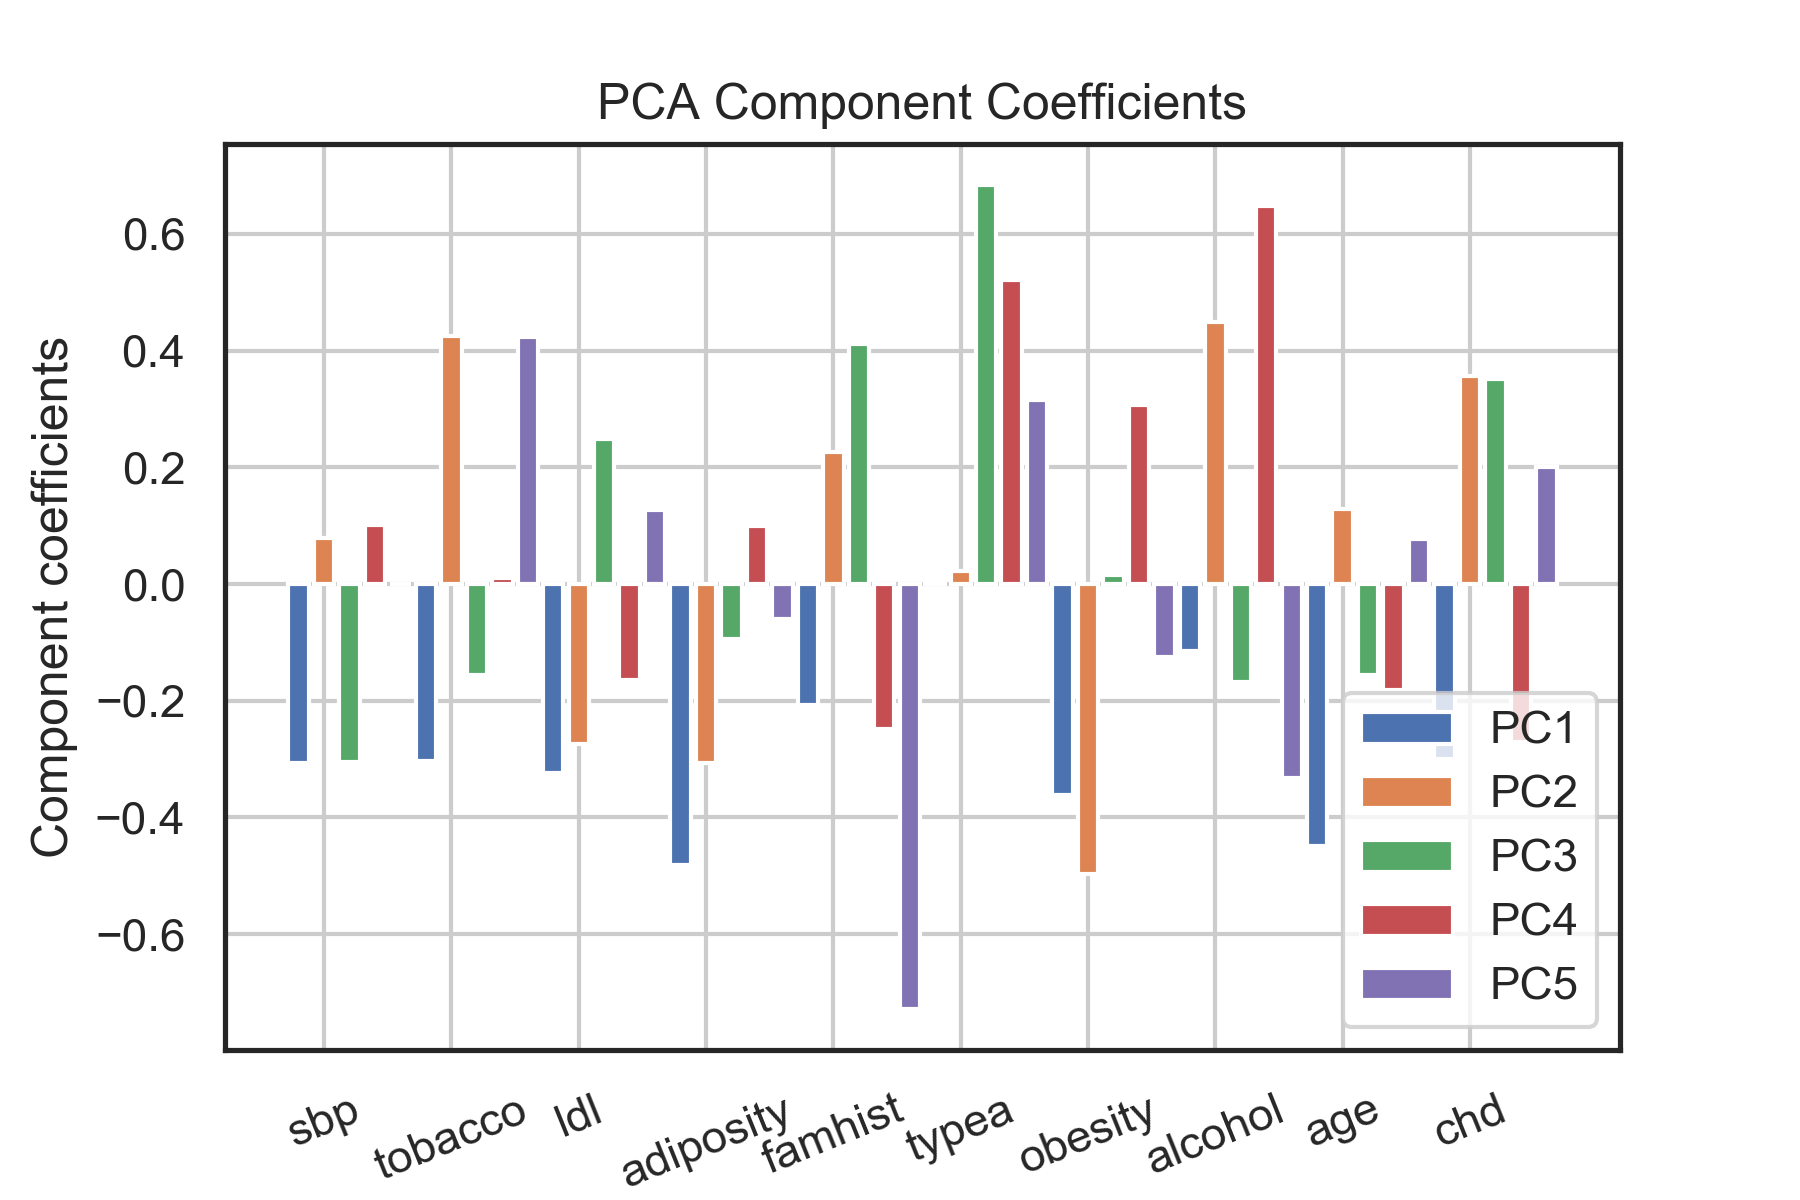
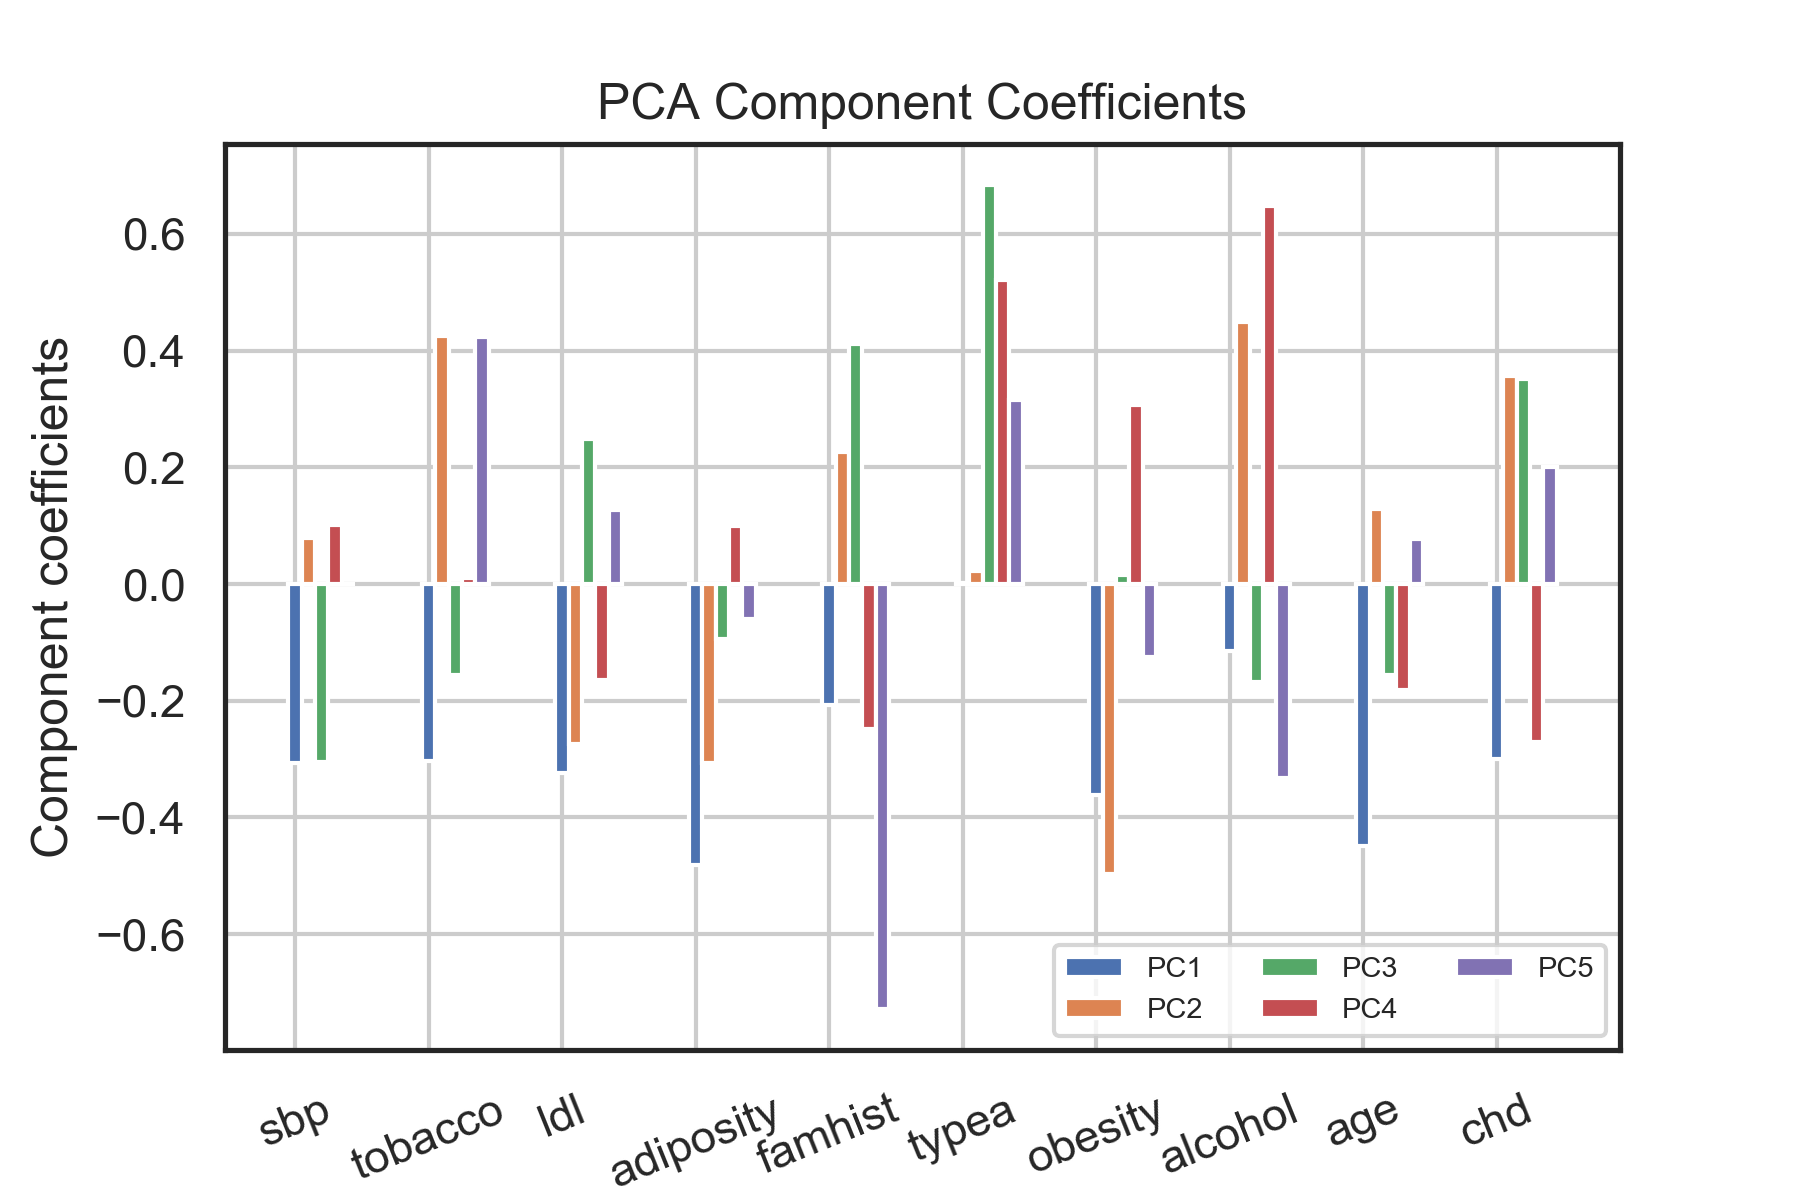
Incorporating everything in the main file

Changed region(s): [[0.1556, 0.1233, 0.9022, 0.8633], [0.3422, 0.8942, 0.84, 0.9867], [0.1244, 0.8942, 0.3422, 0.9867]]

diff --git a/Heart_disease_PCA+plots.py b/Heart_disease_PCA+plots.py
@@ -246,20 +246,21 @@ pcs = [0,1,2,3,4]
 legendStrs = ['PC'+str(e+1) for e in pcs]
 # c = ['r','g','b']
 bw = .2
+space=3*bw
 r = np.arange(1,M+1)
 for i in pcs:    
-    plt.bar(r+i*bw, V[:,i], width=bw*4/5)
-plt.xticks(r+bw, attributeNames)
+    plt.bar(r+r*5*bw+space+i*bw, V[:,i], width=bw)
+plt.xticks(r+r*5*bw+space, attributeNames)
 plt.xlabel('Attributes')
 plt.ylabel('Component coefficients')
 
-plt.legend(legendStrs, loc=4)
+plt.legend(legendStrs,loc=4,ncol=3,fontsize='xx-small', bbox_to_anchor=(1, 0))
 
+#plt.legend(legendStrs)
 
 plt.xticks(rotation=22)
 plt.grid()
 plt.title('PCA Component Coefficients')
-
 plt.savefig('PCA Component Coefficients.png', dpi = 300)
 plt.show()
 
@@ -342,14 +343,14 @@ nonbinary_heart_attr = list(binary_heart_data.drop(['famhist','chd'], axis=1).co
 
 # boxprops = dict(linewidth=3)
 
-figure(figsize=(20,10))
+figure(figsize=(20,10),dpi=300)
 # figure()
 subplot(1,2,1)
 title('CHD: Boxplot', fontsize=18)
 boxplot(nonbinary_heart_data, 0, 'rx')
 grid(True, linestyle='-', which='major', color='lightgrey', alpha=0.5)
 M = nonbinary_heart_data.shape[1]
-xticks(range(1,M+1), nonbinary_heart_attr, rotation=45, fontsize=16)
+xticks(range(1,M+1), nonbinary_heart_attr, rotation=25, fontsize=16)
 yticks(fontsize=16)
 
 
@@ -359,11 +360,11 @@ subplot(1,2,2)
 title('CHD: Boxplot (standarized)', fontsize=18)
 boxplot(zscore(nonbinary_heart_data, ddof=1), nonbinary_heart_attr, 'rx')
 grid(True, linestyle='-', which='major', color='lightgrey', alpha=0.5)
-xticks(range(1,M+1), nonbinary_heart_attr, rotation=45, fontsize=16)
+xticks(range(1,M+1), nonbinary_heart_attr, rotation=25, fontsize=16)
 yticks(fontsize=16)
 
 
-figure()
+figure(dpi=300)
 for num, att in enumerate(attributeNames):
     plt.hist(X[:,num], bins='auto') 
     plt.title("Distribution of "+str(att), fontsize=18)

diff --git a/Heart_disease_PCA+plots- STAN FILE RECONCILED.py b/Heart_disease_PCA+plots- STAN FILE RECONCILED.py
@@ -258,9 +258,10 @@ plt.legend(legendStrs,loc=4,ncol=3,fontsize='xx-small', bbox_to_anchor=(1, 0))
 
 #plt.legend(legendStrs)
 
-plt.xticks(rotation=45)
+plt.xticks(rotation=22)
 plt.grid()
 plt.title('PCA Component Coefficients')
+plt.savefig('PCA Component Coefficients.png', dpi = 300)
 plt.show()
 plt.savefig('PCA Component Coefficients.png', dpi = 300)
 r = np.arange(1,X.shape[1]+1)
